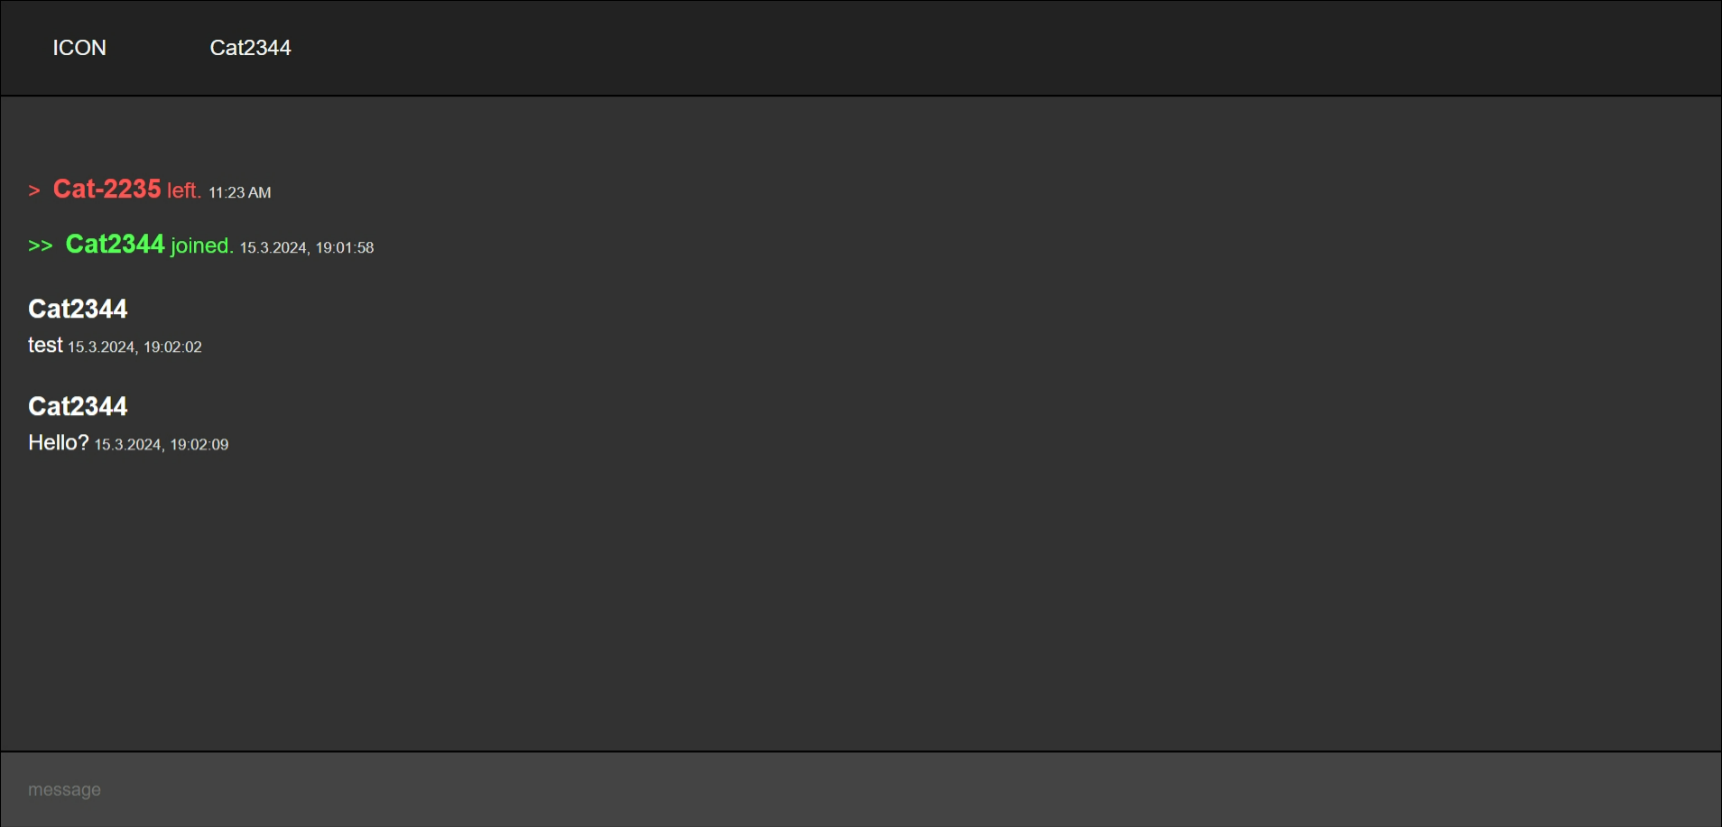
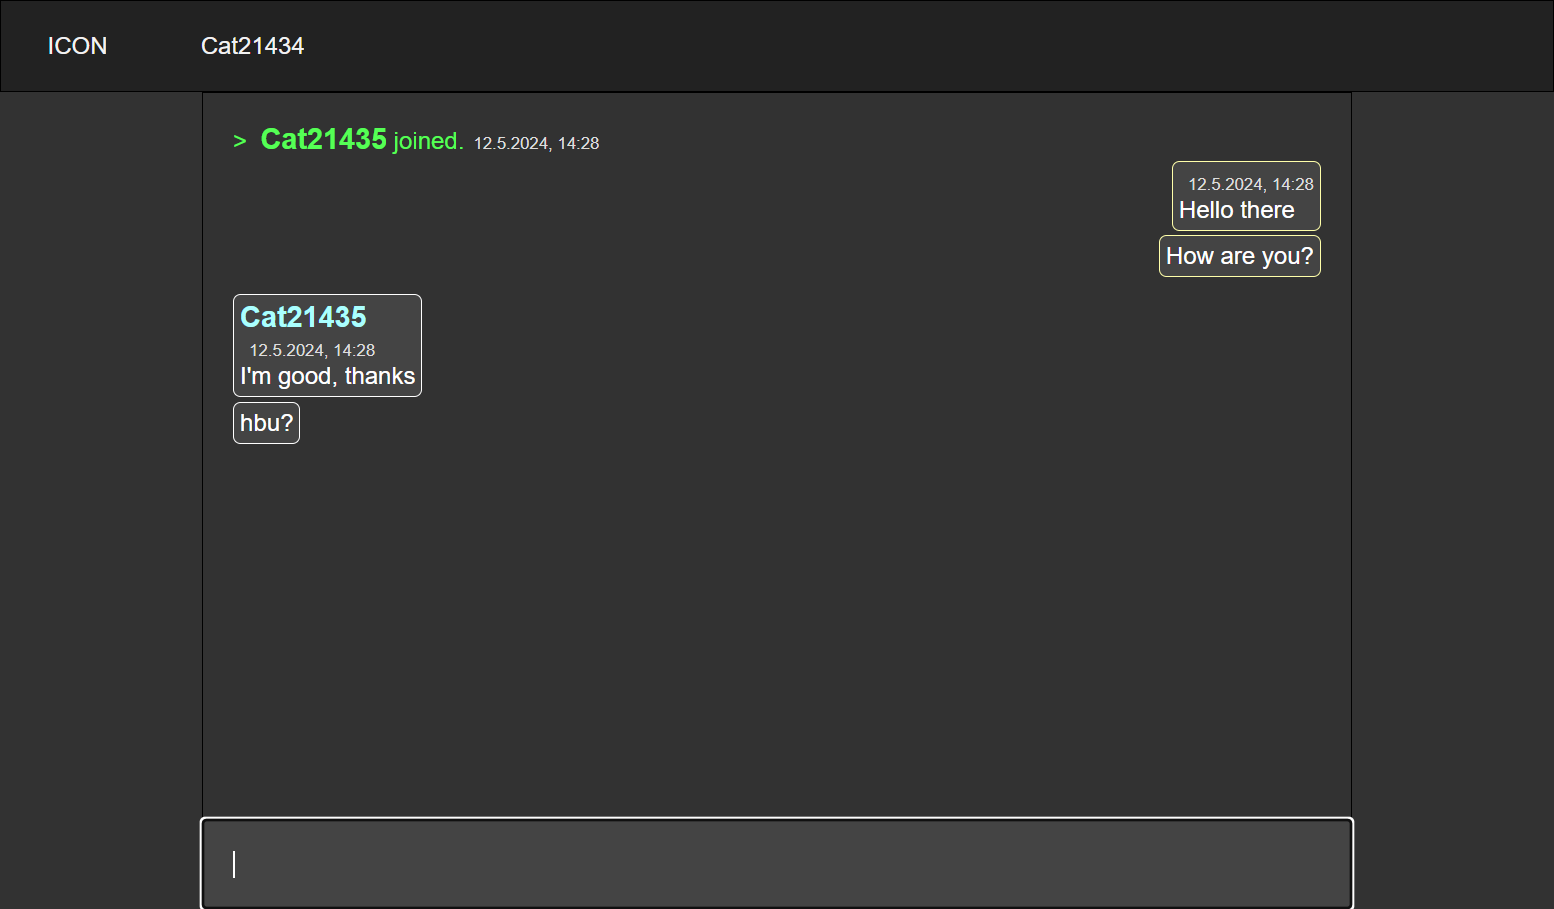
add screenshots generator

diff --git a/tests/make_screenshots.py b/tests/make_screenshots.py
@@ -1,0 +1,97 @@
+import asyncio
+import multiprocessing
+import time
+import typing
+import os
+import pathlib
+
+from cat_room.serve import Server
+from selenium_driverless import webdriver
+from selenium_driverless.types.by import By
+from selenium_driverless.types.target import Target
+
+assets = str(pathlib.Path(os.path.dirname(os.path.dirname(os.path.abspath(__file__))) + "/assets"))
+
+server = Server(port=80, host="localhost")
+
+
+async def enter(tab: Target):
+    await asyncio.sleep(0.05)
+    # press enter
+    key_event = {
+        "type": "keyDown",
+        "code": "Enter",
+        "windowsVirtualKeyCode": 13,
+        "key": "Enter",
+        "modifiers": 0
+    }
+    await tab.execute_cdp_cmd("Input.dispatchKeyEvent", key_event)
+    await asyncio.sleep(0.05)
+    key_event["type"] = "keyUp"
+    await tab.execute_cdp_cmd("Input.dispatchKeyEvent", key_event)
+
+
+async def emulate_mobile(tab: Target):
+    await tab.execute_cdp_cmd("Emulation.setDeviceMetricsOverride",
+                              {"mobile": True, "width": 384, "height": 700,
+                               "deviceScaleFactor": 4,
+                               "screenOrientation": {"type": "portraitPrimary", "angle": 0}})
+
+
+async def reset_emulation(tab: Target):
+    await tab.execute_cdp_cmd("Emulation.clearDeviceMetricsOverride")
+
+
+async def main():
+    url = "http://localhost"
+    usernames = ["Cat21434", "Cat21435"]
+    messages = (["Hello there", "How are you?"], ["I'm good, thanks", "hbu?"])
+
+    options = webdriver.ChromeOptions()
+    options.headless = True
+    async with webdriver.Chrome(options=options) as driver:
+        tabs: typing.List[Target] = [await driver.new_window("tab"), driver.current_target]
+
+        idx = 0
+        for username, tab in zip(usernames, tabs):
+            tab: Target
+            await tab.get(url, wait_load=False)
+            username_inp = await tab.find_element(By.ID, "username-input", timeout=5)
+            await asyncio.sleep(0.5)
+
+            if idx == 0:
+                await tab.save_screenshot(assets + "/register_screenshot.png")
+                await emulate_mobile(tab)
+                await asyncio.sleep(2)
+                await tab.save_screenshot(assets + "/register_screenshot_mobile.png")
+                await reset_emulation(tab)
+
+            await username_inp.send_keys(username)
+            await enter(tab)
+
+            await asyncio.sleep(1)
+            idx += 1
+
+        for messages, tab in zip(messages, tabs):
+            tab: Target
+
+            inp = await tab.find_element(By.ID, "inp", timeout=2)
+            for message in messages:
+                await inp.write(message)
+                await enter(tab)
+                await asyncio.sleep(1)
+        await tabs[0].save_screenshot(assets + "/example_screenshot.png")
+
+        await emulate_mobile(tabs[0])
+        await asyncio.sleep(1)
+        await tabs[0].save_screenshot(assets + "/example_screenshot_mobile.png")
+
+
+if __name__ == "__main__":
+    proc = multiprocessing.Process(target=server.serve)
+    proc.start()
+    time.sleep(3)
+    try:
+        asyncio.run(main())
+    finally:
+        proc.kill()

diff --git a/README.md b/README.md
@@ -31,8 +31,14 @@ then, open http://localhost to view the chatroom
 
 
 
-### Example screenshot
+### Example screenshots
 
-(as now)
+#### Desktop
+<img src="assets/register_screenshot.png" width="100%"/>
+<img src="assets/example_screenshot.png" width="100%"/>
 
-![](assets/example_screenshot.png)
+#### Mobile
+<p float="left">
+    <img src="assets/register_screenshot_mobile.png" width="49%"/>
+    <img src="assets/example_screenshot_mobile.png" width="49%"/>
+</p>
